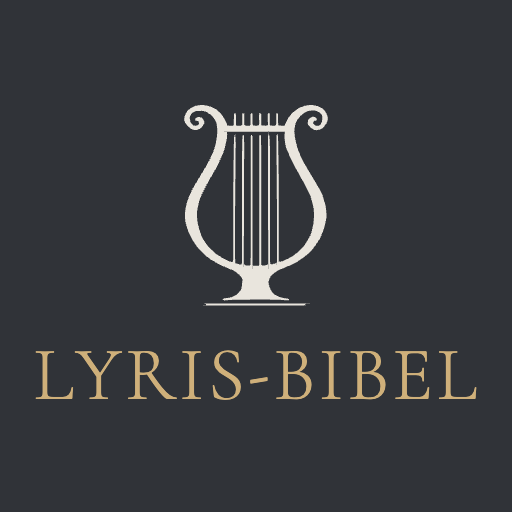
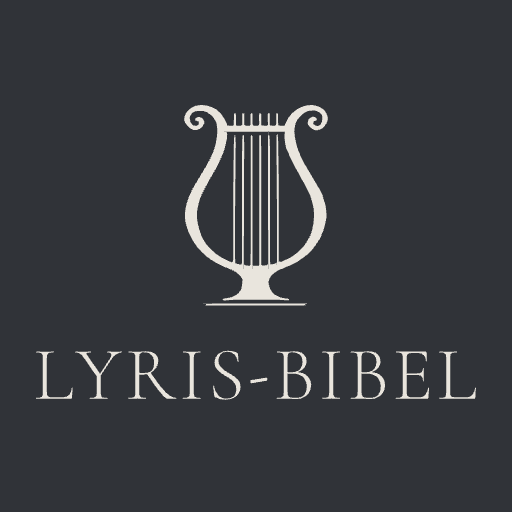
LYRIS-BIBEL App: Fassung lyb2-d6e168f154a1
Neues Symbol nach dem offiziellen Logo (E3): Lyra und «LYRIS-BIBEL» in Elfenbein auf Anthrazit. Bibeltext unverändert.

diff --git a/sw.js b/sw.js
@@ -1,7 +1,7 @@
 // LYRIS-BIBEL, App, die Buch für Buch lädt: Offline-Speicher. Jede Fassung hat eine eigene Kennung, jede Datei
 // ihre Prüfsumme; eine neue Fassung übernimmt unveränderte Bücher und holt nur geänderte neu.
-const FASSUNG = 'lyb2-408441d9448c';
-const DATEIEN = {"1Joh.html": "f18a36b91040", "1Kor.html": "5f03b250a9bb", "1Petr.html": "a887b94288f6", "1Thess.html": "218f0e602d09", "1Tim.html": "737fc8bdb0e2", "2Joh.html": "b846bb3a80df", "2Kor.html": "9d8defbca111", "2Petr.html": "ff114c751332", "2Thess.html": "cd38355db5d5", "2Tim.html": "78e8258e06d3", "3Joh.html": "bbd18ab154e4", "Apg.html": "527cf2b6db10", "Dtn.html": "e97de9e28a72", "Eph.html": "6ba33bc51258", "Ex.html": "c606f0c6cead", "Gal.html": "70ff006c2a02", "Gen.html": "55a7295fde1f", "Hebr.html": "97fce05f94e2", "Jak.html": "d9807edf2bde", "Jes.html": "72345300296d", "Joh.html": "12db179676a1", "Jud.html": "89999fbcf222", "Kol.html": "c07f47f39746", "Lev.html": "077e9ed8c07f", "Lk.html": "c828cfe28def", "Mk.html": "dabddbac93cf", "Mt.html": "b61c67755066", "Num.html": "a9575f81c114", "Offb.html": "ec752f09d0d1", "Phil.html": "6de09b50169b", "Phlm.html": "ea66222aaba1", "Ps.html": "64cfeef8b5bd", "Roem.html": "51a9801371e4", "Rut.html": "9f649dc80916", "Tit.html": "387a0b4a0876", "anhang.html": "a9cc67eedbdd", "app.js": "3c9dc13404e7", "apple-touch-icon.png": "f62d821e5150", "favicon-32.png": "848d598330a2", "icon-192.png": "24d1499143c0", "icon-512.png": "0b5b53a68857", "icon-maskable-512.png": "fcdc94f8f7ec", "index.html": "281443343bdc", "manifest.webmanifest": "501fc45449ef", "schrift/cardo-greek-400-italic.woff2": "00f9a237aec7", "schrift/cardo-greek-400-normal.woff2": "e024be2ca2ae", "schrift/cardo-greek-700-normal.woff2": "053020284af7", "schrift/cardo-greek-ext-400-italic.woff2": "5500b8e1e93a", "schrift/cardo-greek-ext-400-normal.woff2": "a332229305e9", "schrift/cardo-greek-ext-700-normal.woff2": "21bd93e5506e", "schrift/cardo-hebrew-400-italic.woff2": "d9460f0ef991", "schrift/cardo-hebrew-400-normal.woff2": "6740dcbba264", "schrift/cardo-hebrew-700-normal.woff2": "a2fb677088f1", "schrift/cardo-latin-400-italic.woff2": "ddf3188b81ae", "schrift/cardo-latin-400-normal.woff2": "f8279aea4fbf", "schrift/cardo-latin-700-normal.woff2": "93710491c416", "schrift/cardo-latin-ext-400-italic.woff2": "d691c63dec57", "schrift/cardo-latin-ext-400-normal.woff2": "d99f59711905", "schrift/cardo-latin-ext-700-normal.woff2": "6f43c06915f9", "stil.css": "b492aa3b369c", "suche.html": "7dc0c4e9ea8b", "text/1Joh.txt": "caa7315e8e02", "text/1Kor.txt": "ad5eb4f3cb03", "text/1Petr.txt": "6a9ddaf68fea", "text/1Thess.txt": "9747c3a3eef2", "text/1Tim.txt": "46da6b010b13", "text/2Joh.txt": "9142a12e76b1", "text/2Kor.txt": "4993fdd852b6", "text/2Petr.txt": "da56a1e5aff9", "text/2Thess.txt": "80f0bd0c7886", "text/2Tim.txt": "1b9a1580ab57", "text/3Joh.txt": "87ce309118fc", "text/Apg.txt": "a6b526cbd730", "text/Dtn.txt": "a7c3613422f8", "text/Eph.txt": "f7b2a57adc83", "text/Ex.txt": "65111e64a506", "text/Gal.txt": "5d219900705e", "text/Gen.txt": "9006e01723af", "text/Hebr.txt": "23ce5a4cc70d", "text/Jak.txt": "ad266f677e30", "text/Jes.txt": "22fb807572cd", "text/Joh.txt": "f4ca69672ee0", "text/Jud.txt": "24d5a1b6966d", "text/Kol.txt": "9e11997f53ea", "text/Lev.txt": "fe7fdbb9b78f", "text/Lk.txt": "49667532595f", "text/Mk.txt": "ec388d1758d2", "text/Mt.txt": "14dfc71d73e2", "text/Num.txt": "f3243b0ce126", "text/Offb.txt": "b558aedeaa7c", "text/Phil.txt": "8c09ecefbbaf", "text/Phlm.txt": "2d5d4012f175", "text/Ps.txt": "5fd30b6e5d5b", "text/Roem.txt": "ee50f530d1e6", "text/Rut.txt": "422730efe42b", "text/Tit.txt": "23fabf825165", "verzeichnis.js": "e1bcc34aadc6", "vorwort.html": "dbd6c9e81d9e"};
+const FASSUNG = 'lyb2-d6e168f154a1';
+const DATEIEN = {"1Joh.html": "f18a36b91040", "1Kor.html": "5f03b250a9bb", "1Petr.html": "a887b94288f6", "1Thess.html": "218f0e602d09", "1Tim.html": "737fc8bdb0e2", "2Joh.html": "b846bb3a80df", "2Kor.html": "9d8defbca111", "2Petr.html": "ff114c751332", "2Thess.html": "cd38355db5d5", "2Tim.html": "78e8258e06d3", "3Joh.html": "bbd18ab154e4", "Apg.html": "527cf2b6db10", "Dtn.html": "e97de9e28a72", "Eph.html": "6ba33bc51258", "Ex.html": "c606f0c6cead", "Gal.html": "70ff006c2a02", "Gen.html": "55a7295fde1f", "Hebr.html": "97fce05f94e2", "Jak.html": "d9807edf2bde", "Jes.html": "72345300296d", "Joh.html": "12db179676a1", "Jud.html": "89999fbcf222", "Kol.html": "c07f47f39746", "Lev.html": "077e9ed8c07f", "Lk.html": "c828cfe28def", "Mk.html": "dabddbac93cf", "Mt.html": "b61c67755066", "Num.html": "a9575f81c114", "Offb.html": "ec752f09d0d1", "Phil.html": "6de09b50169b", "Phlm.html": "ea66222aaba1", "Ps.html": "64cfeef8b5bd", "Roem.html": "51a9801371e4", "Rut.html": "9f649dc80916", "Tit.html": "387a0b4a0876", "anhang.html": "40de1dc33f09", "app.js": "3c9dc13404e7", "apple-touch-icon.png": "d7c41eecfbf3", "favicon-32.png": "3986c4fcca73", "icon-192.png": "703ce34be7f5", "icon-512.png": "1cbd19d7a22a", "icon-maskable-512.png": "cda739b1a781", "index.html": "e72175eef6b1", "manifest.webmanifest": "501fc45449ef", "schrift/cardo-greek-400-italic.woff2": "00f9a237aec7", "schrift/cardo-greek-400-normal.woff2": "e024be2ca2ae", "schrift/cardo-greek-700-normal.woff2": "053020284af7", "schrift/cardo-greek-ext-400-italic.woff2": "5500b8e1e93a", "schrift/cardo-greek-ext-400-normal.woff2": "a332229305e9", "schrift/cardo-greek-ext-700-normal.woff2": "21bd93e5506e", "schrift/cardo-hebrew-400-italic.woff2": "d9460f0ef991", "schrift/cardo-hebrew-400-normal.woff2": "6740dcbba264", "schrift/cardo-hebrew-700-normal.woff2": "a2fb677088f1", "schrift/cardo-latin-400-italic.woff2": "ddf3188b81ae", "schrift/cardo-latin-400-normal.woff2": "f8279aea4fbf", "schrift/cardo-latin-700-normal.woff2": "93710491c416", "schrift/cardo-latin-ext-400-italic.woff2": "d691c63dec57", "schrift/cardo-latin-ext-400-normal.woff2": "d99f59711905", "schrift/cardo-latin-ext-700-normal.woff2": "6f43c06915f9", "stil.css": "b492aa3b369c", "suche.html": "7dc0c4e9ea8b", "text/1Joh.txt": "caa7315e8e02", "text/1Kor.txt": "ad5eb4f3cb03", "text/1Petr.txt": "6a9ddaf68fea", "text/1Thess.txt": "9747c3a3eef2", "text/1Tim.txt": "46da6b010b13", "text/2Joh.txt": "9142a12e76b1", "text/2Kor.txt": "4993fdd852b6", "text/2Petr.txt": "da56a1e5aff9", "text/2Thess.txt": "80f0bd0c7886", "text/2Tim.txt": "1b9a1580ab57", "text/3Joh.txt": "87ce309118fc", "text/Apg.txt": "a6b526cbd730", "text/Dtn.txt": "a7c3613422f8", "text/Eph.txt": "f7b2a57adc83", "text/Ex.txt": "65111e64a506", "text/Gal.txt": "5d219900705e", "text/Gen.txt": "9006e01723af", "text/Hebr.txt": "23ce5a4cc70d", "text/Jak.txt": "ad266f677e30", "text/Jes.txt": "22fb807572cd", "text/Joh.txt": "f4ca69672ee0", "text/Jud.txt": "24d5a1b6966d", "text/Kol.txt": "9e11997f53ea", "text/Lev.txt": "fe7fdbb9b78f", "text/Lk.txt": "49667532595f", "text/Mk.txt": "ec388d1758d2", "text/Mt.txt": "14dfc71d73e2", "text/Num.txt": "f3243b0ce126", "text/Offb.txt": "b558aedeaa7c", "text/Phil.txt": "8c09ecefbbaf", "text/Phlm.txt": "2d5d4012f175", "text/Ps.txt": "5fd30b6e5d5b", "text/Roem.txt": "ee50f530d1e6", "text/Rut.txt": "422730efe42b", "text/Tit.txt": "23fabf825165", "verzeichnis.js": "e1bcc34aadc6", "vorwort.html": "dbd6c9e81d9e"};
 const KERN = ["index.html", "vorwort.html", "anhang.html", "suche.html", "stil.css", "app.js", "verzeichnis.js", "manifest.webmanifest", "schrift/cardo-greek-400-italic.woff2", "schrift/cardo-greek-400-normal.woff2", "schrift/cardo-greek-700-normal.woff2", "schrift/cardo-greek-ext-400-italic.woff2", "schrift/cardo-greek-ext-400-normal.woff2", "schrift/cardo-greek-ext-700-normal.woff2", "schrift/cardo-hebrew-400-italic.woff2", "schrift/cardo-hebrew-400-normal.woff2", "schrift/cardo-hebrew-700-normal.woff2", "schrift/cardo-latin-400-italic.woff2", "schrift/cardo-latin-400-normal.woff2", "schrift/cardo-latin-700-normal.woff2", "schrift/cardo-latin-ext-400-italic.woff2", "schrift/cardo-latin-ext-400-normal.woff2", "schrift/cardo-latin-ext-700-normal.woff2", "apple-touch-icon.png", "favicon-32.png", "icon-192.png", "icon-512.png", "icon-maskable-512.png"];
 const SUMME = 'x-lyb-summe';
 const BASIS = new URL(self.registration.scope);

diff --git a/index.html b/index.html
@@ -19,7 +19,7 @@
 <div class="fenster" id="einst" role="dialog" aria-label="Leseeinstellungen"><a class="grund" href="#zu" tabindex="-1" aria-label="Schliessen"></a><div class="blatt"><div class="blatt-kopf"><span class="blatt-titel">Leseeinstellungen</span><a class="schliessen" href="#zu" aria-label="Schliessen">×</a></div><div class="blatt-rumpf"><div class="zeile"><span>Hintergrund</span><span class="segment"><label for="e-t-auto">Auto</label><label for="e-t-hell">Hell</label><label for="e-t-sepia">Sepia</label><label for="e-t-anthrazit">Anthrazit</label><label for="e-t-dunkel">Dunkel</label></span></div><div class="zeile"><span>Schriftgrösse</span><span class="segment groesse"><label for="e-g-1" style="font-size:0.62rem" aria-label="Schriftgrösse 1">A</label><label for="e-g-2" style="font-size:0.75rem" aria-label="Schriftgrösse 2">A</label><label for="e-g-3" style="font-size:0.88rem" aria-label="Schriftgrösse 3">A</label><label for="e-g-4" style="font-size:1.01rem" aria-label="Schriftgrösse 4">A</label><label for="e-g-5" style="font-size:1.14rem" aria-label="Schriftgrösse 5">A</label></span></div><div class="zeile"><span>Textbreite</span><span class="segment"><label for="e-w-schmal">schmal</label><label for="e-w-mittel">mittel</label><label for="e-w-breit">breit</label><label for="e-w-sehr-breit">sehr breit</label></span></div><div class="zeile"><span>Satz</span><span class="segment"><label for="e-s-auto">Auto</label><label for="e-s-block">Block</label><label for="e-s-flatter">Flatter</label></span></div><div class="zeile"><span>Fussnoten</span><span class="segment"><label for="e-f-fenster">Fenster</label><label for="e-f-rand" class="nur-gross nur-js">am Rand</label><label for="e-f-ende">am Ende</label></span></div><div class="zeile"><span>Verszahlen</span><span class="segment"><label for="e-v-ein">ein</label><label for="e-v-aus">aus</label></span></div><div class="zeile"><span>Fussnotenmarken</span><span class="segment"><label for="e-m-ein">ein</label><label for="e-m-aus">aus</label></span></div><div class="zeile"><span>HERR</span><span class="segment"><label for="e-k-gross">Grossbuchstaben</label><label for="e-k-kap">Kapitälchen</label></span></div><div class="zeile nur-vollbild"><span>Vollbild</span><span class="segment"><label for="e-b-aus">aus</label><label for="e-b-ein">ein</label></span></div><div class="zeile nur-sw"><span>Offline</span><button type="button" class="knopf" id="offline-knopf">Alle Bücher speichern</button><span class="offline-stand" id="offline-stand"></span></div><p class="einst-hinweis nur-js">Die Wahl bleibt in diesem Browser gespeichert.</p><p class="einst-hinweis"><a href="anhang.html#lesen">Was die Einstellungen bewirken</a></p></div></div></div>
 <div id="pop" role="dialog" aria-label="Fussnote" hidden></div>
 <div class="meldung" id="meldung" role="status" hidden></div><main>
-<header class="titelei" data-ort="Inhalt"><p class="t-ueber">Eigenständige Übersetzung aus den Grundsprachen</p><h1>LYRIS-BIBEL</h1><div class="t-linie" aria-hidden="true"><span></span></div><p class="t-inhalt">Die Genesis, das Buch Exodus, das Buch Levitikus, das Buch Numeri, das Deuteronomium, das Buch Rut, die Psalmen, das Buch Jesaja<br>und das Neue Testament</p><p class="t-stand">Teilausgabe · Stand 28.10.2026</p><p class="t-vorlaeufig">Vorläufige Fassung</p></header><p class="weiter-zeile nur-js"><a class="weiter" id="weiter" href="#inhalt" hidden><span class="w-titel">Weiterlesen</span><span class="w-ort" id="weiter-ort"></span></a></p><nav class="inhalt" id="inhalt" data-ort="Inhalt" aria-label="Inhalt"><h2>Inhalt</h2>
+<header class="titelei" data-ort="Inhalt"><p class="t-ueber">Eigenständige Übersetzung aus den Grundsprachen</p><h1>LYRIS-BIBEL</h1><div class="t-linie" aria-hidden="true"><span></span></div><p class="t-inhalt">Die Genesis, das Buch Exodus, das Buch Levitikus, das Buch Numeri, das Deuteronomium, das Buch Rut, die Psalmen, das Buch Jesaja<br>und das Neue Testament</p><p class="t-stand">Teilausgabe · Stand 29.10.2026</p><p class="t-vorlaeufig">Vorläufige Fassung</p></header><p class="weiter-zeile nur-js"><a class="weiter" id="weiter" href="#inhalt" hidden><span class="w-titel">Weiterlesen</span><span class="w-ort" id="weiter-ort"></span></a></p><nav class="inhalt" id="inhalt" data-ort="Inhalt" aria-label="Inhalt"><h2>Inhalt</h2>
 <ul class="rahmenliste"><li><a href="vorwort.html#vorwort">Vorwort</a></li></ul>
 <h3>Das Alte Testament</h3>
 <h4>Tora</h4>

diff --git a/anhang.html b/anhang.html
@@ -1713,5 +1713,5 @@
 <p>Die Übersetzung ist mit Hilfe eines Sprachmodells erarbeitet (Claude, Anthropic), nach der Konzeption und den Anleitungen der LYRIS-BIBEL; das Vorwort beschreibt, wie.</p>
 <p>Die Rechte an der Übersetzung liegen beim Übersetzer. Die LYRIS-BIBEL soll grundsätzlich frei zugänglich sein; eine Lizenz wird geprüft.</p>
 <p>Kontakt: <a href="mailto:info@lyris.ch">info@lyris.ch</a></p><p>Schrift: Cardo von David J. Perry, unter der SIL Open Font License 1.1.</p></section>
-<section id="impressum"><h2>Stand dieser Ausgabe</h2><p>Diese Fassung ist am 28.10.2026 aus dem Arbeitsbestand der LYRIS-BIBEL erzeugt worden. <span class="kennung">Kennung des Arbeitsstands: c51b01f9, Verzeichnis der Wiedergaben 754.</span></p><p class="vorlaeufig">Diese Ausgabe ist eine vorläufige Fassung. Übersetzung, Fussnoten, Einleitungen und Verzeichnisse sind mit einem Sprachmodell (Claude, Anthropic) nach der Konzeption und den Anleitungen der LYRIS-BIBEL erarbeitet; LYRIS arbeitet sämtliche Texte von Hand durch. Jede Fassung ersetzt die vorige.</p><p>Die LYRIS-BIBEL soll grundsätzlich frei zugänglich sein; eine Lizenz wird geprüft. Kontakt: <a href="mailto:info@lyris.ch">info@lyris.ch</a></p></section></section>
+<section id="impressum"><h2>Stand dieser Ausgabe</h2><p>Diese Fassung ist am 29.10.2026 aus dem Arbeitsbestand der LYRIS-BIBEL erzeugt worden. <span class="kennung">Kennung des Arbeitsstands: 5f86e0b3, Verzeichnis der Wiedergaben 754.</span></p><p class="vorlaeufig">Diese Ausgabe ist eine vorläufige Fassung. Übersetzung, Fussnoten, Einleitungen und Verzeichnisse sind mit einem Sprachmodell (Claude, Anthropic) nach der Konzeption und den Anleitungen der LYRIS-BIBEL erarbeitet; LYRIS arbeitet sämtliche Texte von Hand durch. Jede Fassung ersetzt die vorige.</p><p>Die LYRIS-BIBEL soll grundsätzlich frei zugänglich sein; eine Lizenz wird geprüft. Kontakt: <a href="mailto:info@lyris.ch">info@lyris.ch</a></p></section></section>
 </main></div></body></html>
